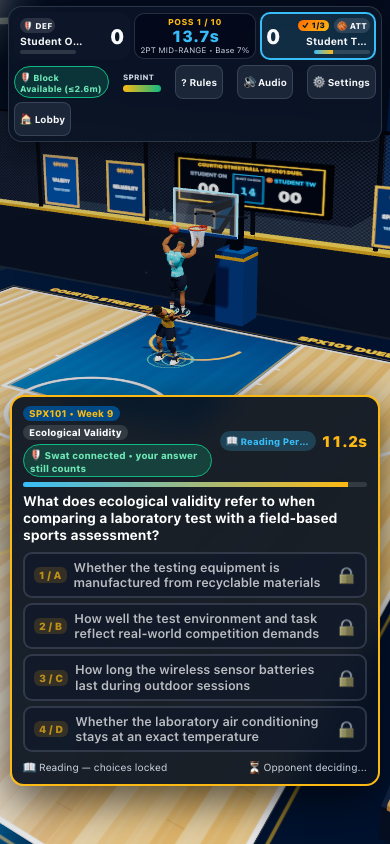
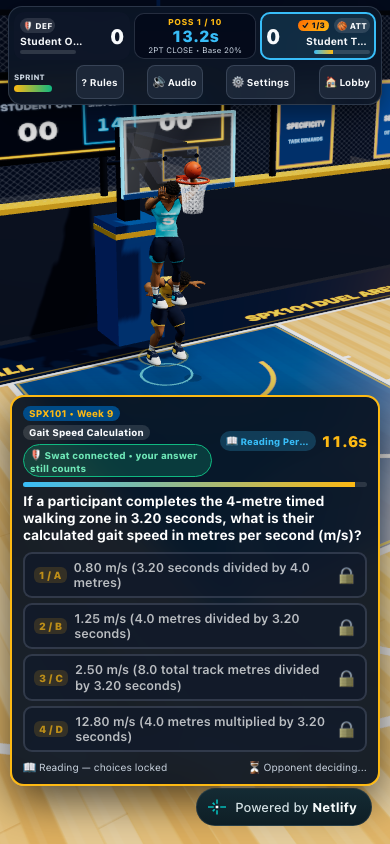
Record verified live controls, feedback and Fire release

diff --git a/docs/verification/2026-11-12-simple-controls/README.md b/docs/verification/2026-11-12-simple-controls/README.md
@@ -1,14 +1,14 @@
 # Simple controls and learning Fire verification
 
-12 November 2026. Source baseline `b6feb63`. The release adds two contextual action keys, random paint-drive dunks, more forgiving manual blocks, personal learning explanations, and Fire after three consecutive correct questions. See the main README for controls and exact rules.
+12 November 2026. Source baseline `b6feb63`; implementation `4affcb3`. Production deploy `6af4d6de8a44959c9894be9b` is ready at [CourtIQ](https://courtiq-spx101.netlify.app). The release adds two contextual action keys, random paint-drive dunks, more forgiving manual blocks, personal learning explanations, and Fire after three consecutive correct questions. See the main README for controls and exact rules.
 
 - 124 tests across 17 files pass; strict TypeScript and production build pass.
 - Ordinary-input isolated Chromium matches verify all four C tap counts, primary-action paint dunk/manual block, immediate defensive C swipe and root, Fire ignition after three correct answers and reset after the next wrong answer.
-- Two browser clients on the deployed preview verify the same question and choices, hidden pre-resolution keys/reasons, different personal verdicts, and both students confirming Continue. The final physical-swat label correction was checked in the compiled local build.
-- Desktop, 390×844 portrait and 844×390 landscape controls were checked. Rendered screenshots were opened and inspected. A labelled 64px hosting-badge fixture also clears all four choices and Continue; the preview itself did not inject a real badge.
+- Two browser clients on the deployed preview verify the same question and choices, hidden pre-resolution keys/reasons, different personal verdicts, and both students confirming Continue. The final label correction was checked in the compiled local build and production. Live two-student tests also pass, with 35 pre-resolution secrecy checks, both-party Continue, primary-action dunk/block and missed-swipe recovery.
+- Desktop, 390×844 portrait and 844×390 landscape controls were checked. Rendered screenshots were opened and inspected. A labelled 64px hosting-badge fixture also clears all four choices and Continue; the preview itself did not inject a real badge. Production screenshots show the genuine Netlify badge clear of all four choices and Continue.
 - All 85 original question records and pack metadata remain unchanged; 255 wrong-choice reasons were added. Those new rationales are **draft additions awaiting instructor review**.
 
-[Machine-readable release evidence](report.json)
+All 20 production files match the tested dist (application assets byte-for-byte; only known Netlify HTML hosting transformations normalised). Source and build fingerprints are recorded in [machine-readable release evidence](report.json). The screenshots below come from production.
 
 ![Three correct answers ignite Fire](learning-fire.png)
 

diff --git a/progress.md b/progress.md
@@ -84,3 +84,5 @@ Final release verified: gameplay56c18c3 plus CSS79d19d9 on GitHub main; producti
 12 November 2026: Implemented two contextual actions (Space shoot/paint-drive dunk/block; C fixed-500ms 1/2/3/4+ trick selection or immediate steal), random authoritative dunk styles, forgiving manual blocks, per-student correct/incorrect/unanswered feedback and learner-paced Continue (both online students required). Learning-only Fire ignites at 3 correct answers, +20% movement and +20pp shooting, persists across misses/blocks/steals, resets on wrong/timeout. Added 255 option-specific distractor rationales across 85 questions with original question data and pack metadata unchanged. Rationales remain draft for instructor review.
 
 124 tests / 17 files PASS; strict production build PASS. Ordinary-input browser matches tested on desktop, 390x844 and 844x390, all four tap counts, actual primary-action paint dunk and manual swat, missed-swipe root, the three-correct / next-wrong Fire cycle, separate per-student feedback and two-party Continue. Screenshots inspected. Fixed a misleading Open Shot label after a physical swat and shortened mobile question status labels. Preview 6af4d492881571c764177a74 passes actual two-browser HTTP checks and exact hashes for all 20 shipped files; final label correction rebuilt and checked in the local compiled game. A 64px hosting badge layout fixture was tested because the preview did not inject a real badge. GitHub / production publishing pending.
+
+Published 12 November: implementation 4affcb3 pushed to GitHub main; production 6af4d6de8a44959c9894be9b current/ready. All 20 live files match the final tested dist; both deployed function digests match the verified preview. Actual live two-student browser test passes shared questions, 35 hidden-key/reason checks, personal feedback, both-party Continue, missed-swipe root and same-key paint dunk/manual swat. Live controls/Fire cycle passes all four tap counts, three correct => Fire, third-shot 92% example, next wrong => reset; zero page errors. Production screenshots opened and inspected, with genuine hosting badge clear of controls. Release evidence saved under docs/verification/2026-11-12-simple-controls. Remaining human validation: instructor review of draft distractor rationales; physical devices/campus Wi-Fi, subjective play balance and auditory listening. No paid services or billing/credit settings changed.

diff --git a/HANDOFF.md b/HANDOFF.md
@@ -327,3 +327,5 @@ Three consecutive correct questions ignite each student independently (+20% move
 Feedback shows each student their own verdict, selection and a specific wrong-choice rationale, plus correct reasoning/source. It stays until Continue; both online students must confirm using authenticated CONTINUE_FEEDBACK messages. Reconnect restores readiness. Pre-resolution online questions omit keys and all explanations. New rationales cover 255 distractors across the unchanged 85-question packs and require instructor review.
 
 Validation: 124 tests in 17 files and strict production build pass. Actual keyboard/touch browser matches cover all tap counts, Fire ignition/extinction, paint dunk/manual block, steal recovery, shared online questions and per-student reading/Continue. Source/content and deployed-asset audits pass. Rendered evidence and limits are in docs/verification/2026-11-12-simple-controls. Physical-device/campus playtests and human audio listening remain unperformed.
+
+Release: implementation `4affcb3` on GitHub main; production `6af4d6de8a44959c9894be9b` current/ready at https://courtiq-spx101.netlify.app. All 20 production files match the final tested build, with only known hosting HTML transformations; both deployed function hashes match the verified preview. Live browser matches verify every new control, the full Fire cycle, two-student explanations/Continue, primary-action dunk/block and genuine hosting badge clearance. See the release report and inspected production screenshots in `docs/verification/2026-11-12-simple-controls`.
